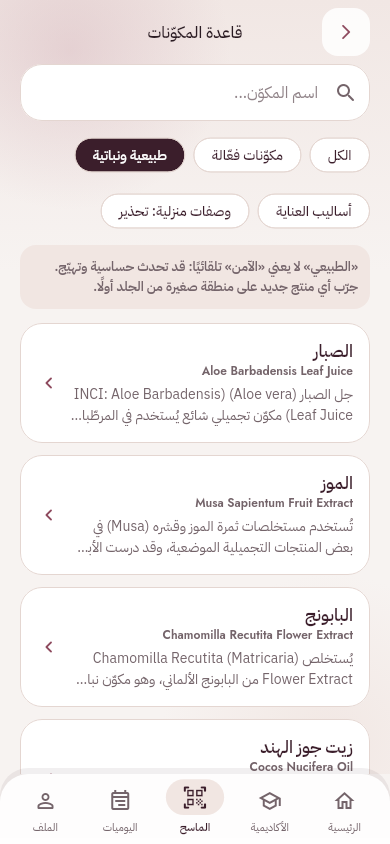
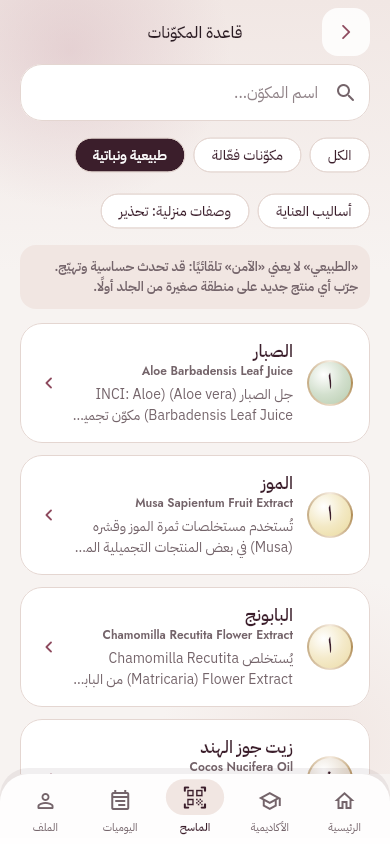
feat(design): har bir ingredientga o'z rangi va oltin medalyonli monogramma
Claude-Session: https://claude.ai/code/session_01DHMppTHpVgUVFN7o5nWH6w

diff --git a/mobile/lib/features/home/home_page.dart b/mobile/lib/features/home/home_page.dart
@@ -3,6 +3,7 @@ import 'package:go_router/go_router.dart';
 
 import '../../app/app_state.dart';
 import '../../app/theme.dart';
+import '../../ui/ingredient_palette.dart';
 import '../../ui/safe_nav.dart';
 import '../../l10n/app_localizations.dart';
 import '../../ui/portrait_banner.dart';
@@ -126,6 +127,7 @@ class HomePage extends StatelessWidget {
                 separatorBuilder: (_, _) => const SizedBox(width: 12),
                 itemBuilder: (context, i) => _IngredientCard(
                   name: natural[i].nameFor(lang),
+                  slug: natural[i].slug,
                   icon: Icons.spa_outlined,
                   latin: !natural[i].hasFriendlyName,
                   onTap: () => context.safePush('/scanner/ingredient/${natural[i].slug}'),
@@ -151,6 +153,7 @@ class HomePage extends StatelessWidget {
               separatorBuilder: (_, _) => const SizedBox(width: 12),
               itemBuilder: (context, i) => _IngredientCard(
                 name: actives[i].nameFor(lang),
+                slug: actives[i].slug,
                 icon: Icons.science_outlined,
                 latin: !actives[i].hasFriendlyName,
                 onTap: () => context.safePush('/scanner/ingredient/${actives[i].slug}'),
@@ -223,6 +226,7 @@ class HomePage extends StatelessWidget {
                 separatorBuilder: (_, _) => const SizedBox(width: 12),
                 itemBuilder: (context, i) => _IngredientCard(
                   name: practices[i].nameFor(lang),
+                  slug: practices[i].slug,
                   icon: Icons.self_improvement_outlined,
                   latin: !practices[i].hasFriendlyName,
                   onTap: () => context.safePush('/scanner/ingredient/${practices[i].slug}'),
@@ -306,8 +310,9 @@ class _Tile extends StatelessWidget {
 
 /// Ravoq (arka) shaklidagi kartochka: Sharq me'morchiligi va lyuks atelye uslubi; ingichka oltin chiziq.
 class _IngredientCard extends StatelessWidget {
-  const _IngredientCard({required this.name, required this.onTap, this.latin = true, this.icon = Icons.science_outlined});
+  const _IngredientCard({required this.name, required this.slug, required this.onTap, this.latin = true, this.icon = Icons.science_outlined});
   final String name;
+  final String slug;
   final IconData icon;
 
   /// Lotin INCI nomi bo'lsa matn chapdan o'ngga; tushunarli (mahalliy) nom bo'lsa til yo'nalishida.
@@ -331,19 +336,19 @@ class _IngredientCard extends StatelessWidget {
             width: 140,
             decoration: BoxDecoration(
               borderRadius: _shape,
-              color: Colors.white,
+              gradient: LinearGradient(
+                begin: Alignment.topCenter,
+                end: Alignment.bottomCenter,
+                colors: [Color.lerp(Colors.white, ingredientTint(slug), 0.32)!, Colors.white, Colors.white],
+                stops: const [0, 0.62, 1],
+              ),
               border: Border.all(color: SamiyaColors.gold.withValues(alpha: 0.6)),
               boxShadow: SamiyaShadows.soft,
             ),
             padding: const EdgeInsetsDirectional.fromSTEB(14, 26, 14, 16),
             child: ExcludeSemantics(
               child: Column(children: [
-                Container(
-                  width: 50,
-                  height: 50,
-                  decoration: const BoxDecoration(color: SamiyaColors.blush, shape: BoxShape.circle),
-                  child: Icon(icon, color: SamiyaColors.heading, size: 24),
-                ),
+                IngredientMonogram(slug: slug, name: name, size: 56),
                 const Spacer(),
                 Text(name,
                     textDirection: latin ? TextDirection.ltr : null,

diff --git a/mobile/lib/ui/ingredient_palette.dart b/mobile/lib/ui/ingredient_palette.dart
@@ -1,0 +1,89 @@
+import 'package:flutter/material.dart';
+
+import '../app/theme.dart';
+
+/// Har bir ingredientning o'z "rang hikoyasi" (tabiiy manbasidan ilhomlangan yumshoq ton).
+const _tints = <String, Color>{
+  'honey': Color(0xFFE5BE6E),
+  'aloe-vera': Color(0xFF9DBB93),
+  'banana': Color(0xFFE4CF7E),
+  'cucumber': Color(0xFF8FB487),
+  'coconut-oil': Color(0xFFD4C3AA),
+  'nigella-sativa-oil': Color(0xFF8E7B74),
+  'rosehip-oil': Color(0xFFD9897A),
+  'oat': Color(0xFFD4C29C),
+  'green-tea': Color(0xFF94AE80),
+  'olive-oil': Color(0xFFA3AA72),
+  'chamomile': Color(0xFFE6D08A),
+  'rose-water': Color(0xFFE0A2B1),
+  'turmeric': Color(0xFFDDA048),
+  'lemon-juice': Color(0xFFE2D062),
+  'baking-soda': Color(0xFFBFCDD4),
+  'facial-massage': Color(0xFFD3B1BB),
+  'gua-sha': Color(0xFF9EC0B6),
+  'niacinamide': Color(0xFFC3B0D6),
+  'hyaluronic-acid': Color(0xFFA3C2DB),
+  'salicylic-acid': Color(0xFFAFCDC2),
+  'ascorbic-acid': Color(0xFFEBB473),
+  'retinol': Color(0xFFE2AC9C),
+  'ceramide-np': Color(0xFFD3C6E0),
+  'glycerin': Color(0xFFC3DAE2),
+  'glycolic-acid': Color(0xFFDDC79B),
+  'panthenol': Color(0xFFCEBEDB),
+  'urea': Color(0xFFC9D3DC),
+  'zinc-oxide': Color(0xFFD3D1CF),
+};
+
+Color ingredientTint(String slug) => _tints[slug] ?? SamiyaColors.roseLight;
+
+/// Monogramma medalyon: oltin halqa ichida kursiv serif bosh harf, ingredient rangida.
+class IngredientMonogram extends StatelessWidget {
+  const IngredientMonogram({super.key, required this.slug, required this.name, this.size = 54});
+  final String slug;
+  final String name;
+  final double size;
+
+  @override
+  Widget build(BuildContext context) {
+    final tint = ingredientTint(slug);
+    final letter = name.trim().isEmpty ? '·' : name.trim().characters.first.toUpperCase();
+    final arabic = RegExp(r'[-ۿ]').hasMatch(letter);
+    return Container(
+      width: size,
+      height: size,
+      padding: const EdgeInsets.all(2),
+      decoration: BoxDecoration(
+        shape: BoxShape.circle,
+        gradient: SweepGradient(colors: [
+          SamiyaColors.gold,
+          const Color(0xFFEADBC6),
+          SamiyaColors.gold.withValues(alpha: 0.7),
+          const Color(0xFFF5EBDF),
+          SamiyaColors.gold,
+        ]),
+      ),
+      child: Container(
+        alignment: Alignment.center,
+        decoration: BoxDecoration(
+          shape: BoxShape.circle,
+          gradient: RadialGradient(
+            center: const Alignment(-0.3, -0.4),
+            radius: 0.95,
+            colors: [Colors.white, Color.lerp(Colors.white, tint, 0.45)!, Color.lerp(Colors.white, tint, 0.75)!],
+          ),
+        ),
+        child: Text(
+          letter,
+          style: TextStyle(
+            fontFamily: arabic ? 'Amiri' : 'CormorantGaramond',
+            fontStyle: arabic ? FontStyle.normal : FontStyle.italic,
+            fontWeight: FontWeight.w600,
+            fontSize: size * 0.5,
+            height: 1.0,
+            color: SamiyaColors.heading,
+          ),
+        ),
+      ),
+    );
+  }
+}

diff --git a/mobile/lib/features/scanner/ingredient_list_page.dart b/mobile/lib/features/scanner/ingredient_list_page.dart
@@ -4,6 +4,7 @@ import 'package:go_router/go_router.dart';
 import '../../app/app_state.dart';
 import '../../app/theme.dart';
 import '../../l10n/app_localizations.dart';
+import '../../ui/ingredient_palette.dart';
 import '../../ui/safe_nav.dart';
 import '../../ui/widgets.dart';
 import 'ingredient_models.dart';
@@ -135,6 +136,8 @@ class _IngredientTile extends StatelessWidget {
             decoration: BoxDecoration(borderRadius: BorderRadius.circular(22), border: Border.all(color: SamiyaColors.border)),
             child: ExcludeSemantics(
               child: Row(children: [
+                IngredientMonogram(slug: ing.slug, name: ing.nameFor(lang), size: 46),
+                const SizedBox(width: 14),
                 Expanded(
                   child: Column(crossAxisAlignment: CrossAxisAlignment.start, children: [
                     Text(ing.nameFor(lang),
